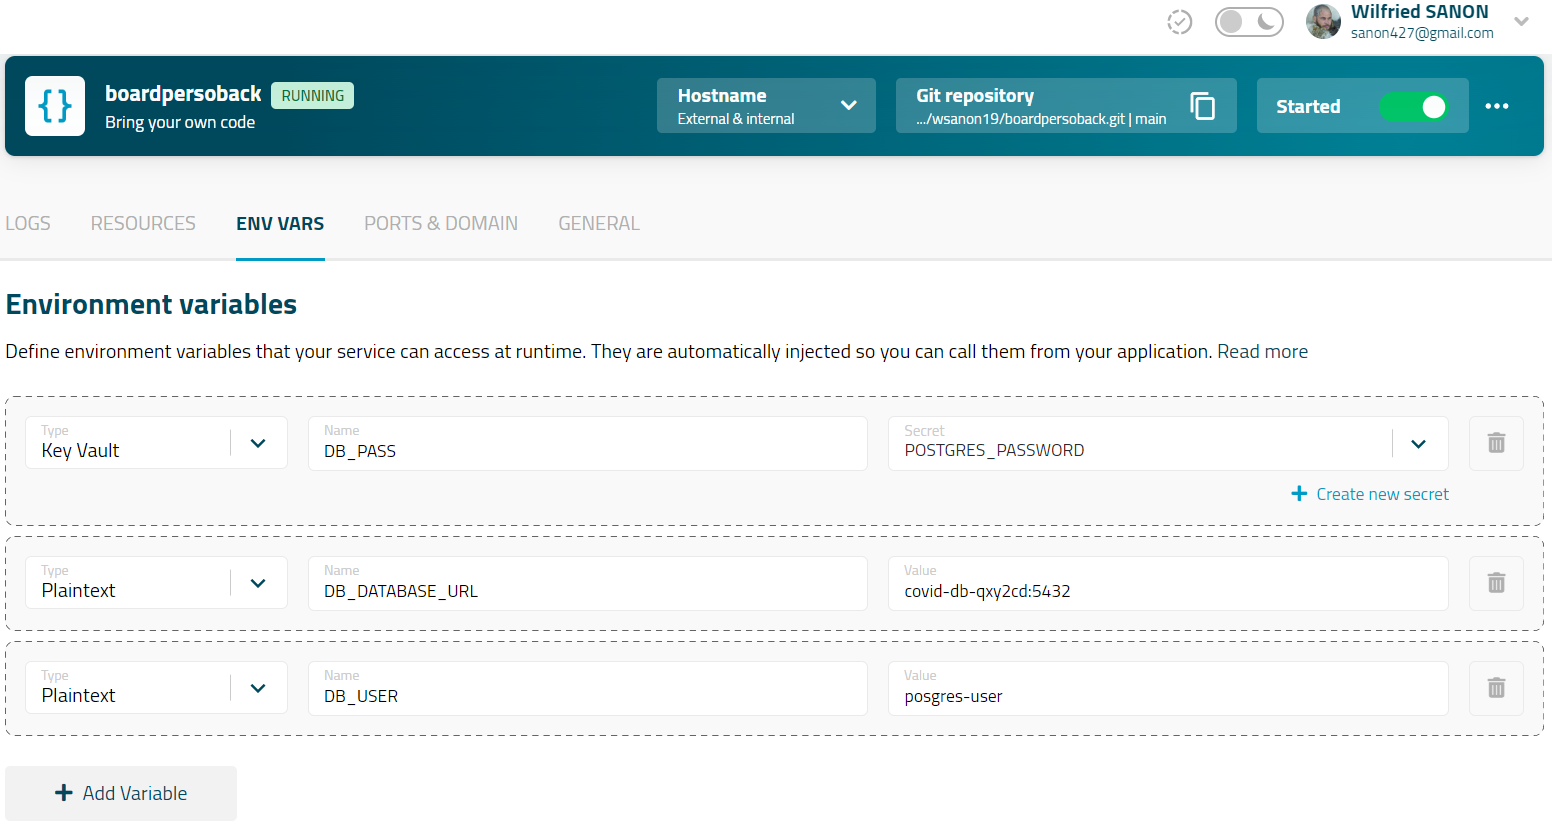
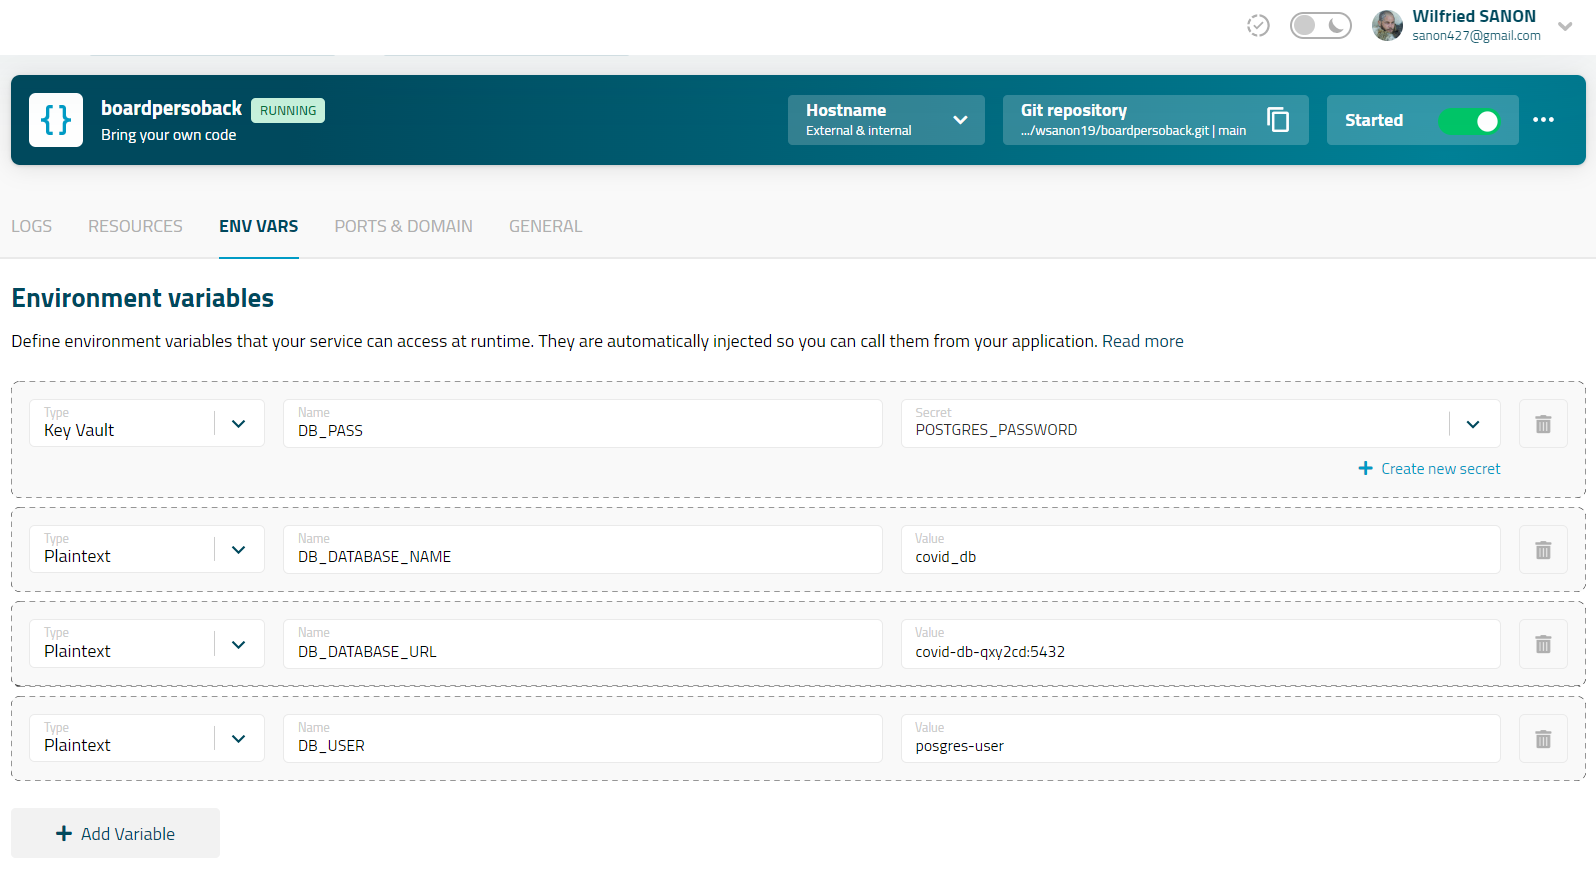
update readme 2

diff --git a/README.md b/README.md
@@ -2,13 +2,13 @@
 
 ## API (SpringBoot) + db PostgreeSQL 
 
-Ceci est l'API d'un projet perso, une application présentant mes projets réalisés. 
+Ceci est l'API d'un de mes projets perso, une application présentant mes projets réalisés. 
 
 Dépot git : `https://github.com/wsanon19/boardpersoback.git`
 
 Lien de déploiement mogenius : `https://boardpersoback-prod-wilfried-bf-8a0qur.mo2.mogenius.io/`
 
-## Endpoints fonctionnels de l'api  : 
+## Endpoints fonctionnels de l'API  : 
 
 - Afficher la liste des projets : 
     - Type de la requete : GET 
@@ -39,23 +39,24 @@ J'ai crée deux services :
 * covid_db : image créé a partir du services préconfigurés postgre sql fournie par mobogenius
 
 
-## covid_db  
+### covid_db  
 
-Il s'agit de l'image de la base de donnée postgre crée avec les variables d'environnements suivants: 
+Il s'agit de l'image de la base de donnée postgre créee avec les variables d'environnements suivants: 
 
 <img src="vardb.png" >
 
 
 
-## boardpersoback  
+### boardpersoback  
 
-Il s'agit du conteneur contenant l'API spring. Cette API communique avec la base de donnée sur le conteneur covid_db.
-Afin de réaliser la connection à la base de données le fichier application.properties a été configuré de la manière 
-suivante :
+Il s'agit du service sur lequel tourne le  conteneur de l'API. Cette API communique avec la base de donnée sur le conteneur covid_db.
+Afin de réaliser la connection à la base de données : 
+
+* Configuration du fichier application.properties :
 
 ```
 
-spring.datasource.url=jdbc:postgresql://${DB_DATABASE_URL}/covid_db
+spring.datasource.url=jdbc:postgresql://${DB_DATABASE_URL}/${DB_DATABASE_NAME}
 spring.datasource.username=${DB_USER}
 spring.datasource.password=${DB_PASS}
 spring.jpa.hibernate.ddl-auto=create
@@ -68,7 +69,7 @@ src/main/application.properties
 
 
 
-Puis les variables d'environnements du conteneur sont configurées ainsi : 
+* Configuration des variables d'environnements du conteneur : 
 
 <img src="varapi.png" >
 
